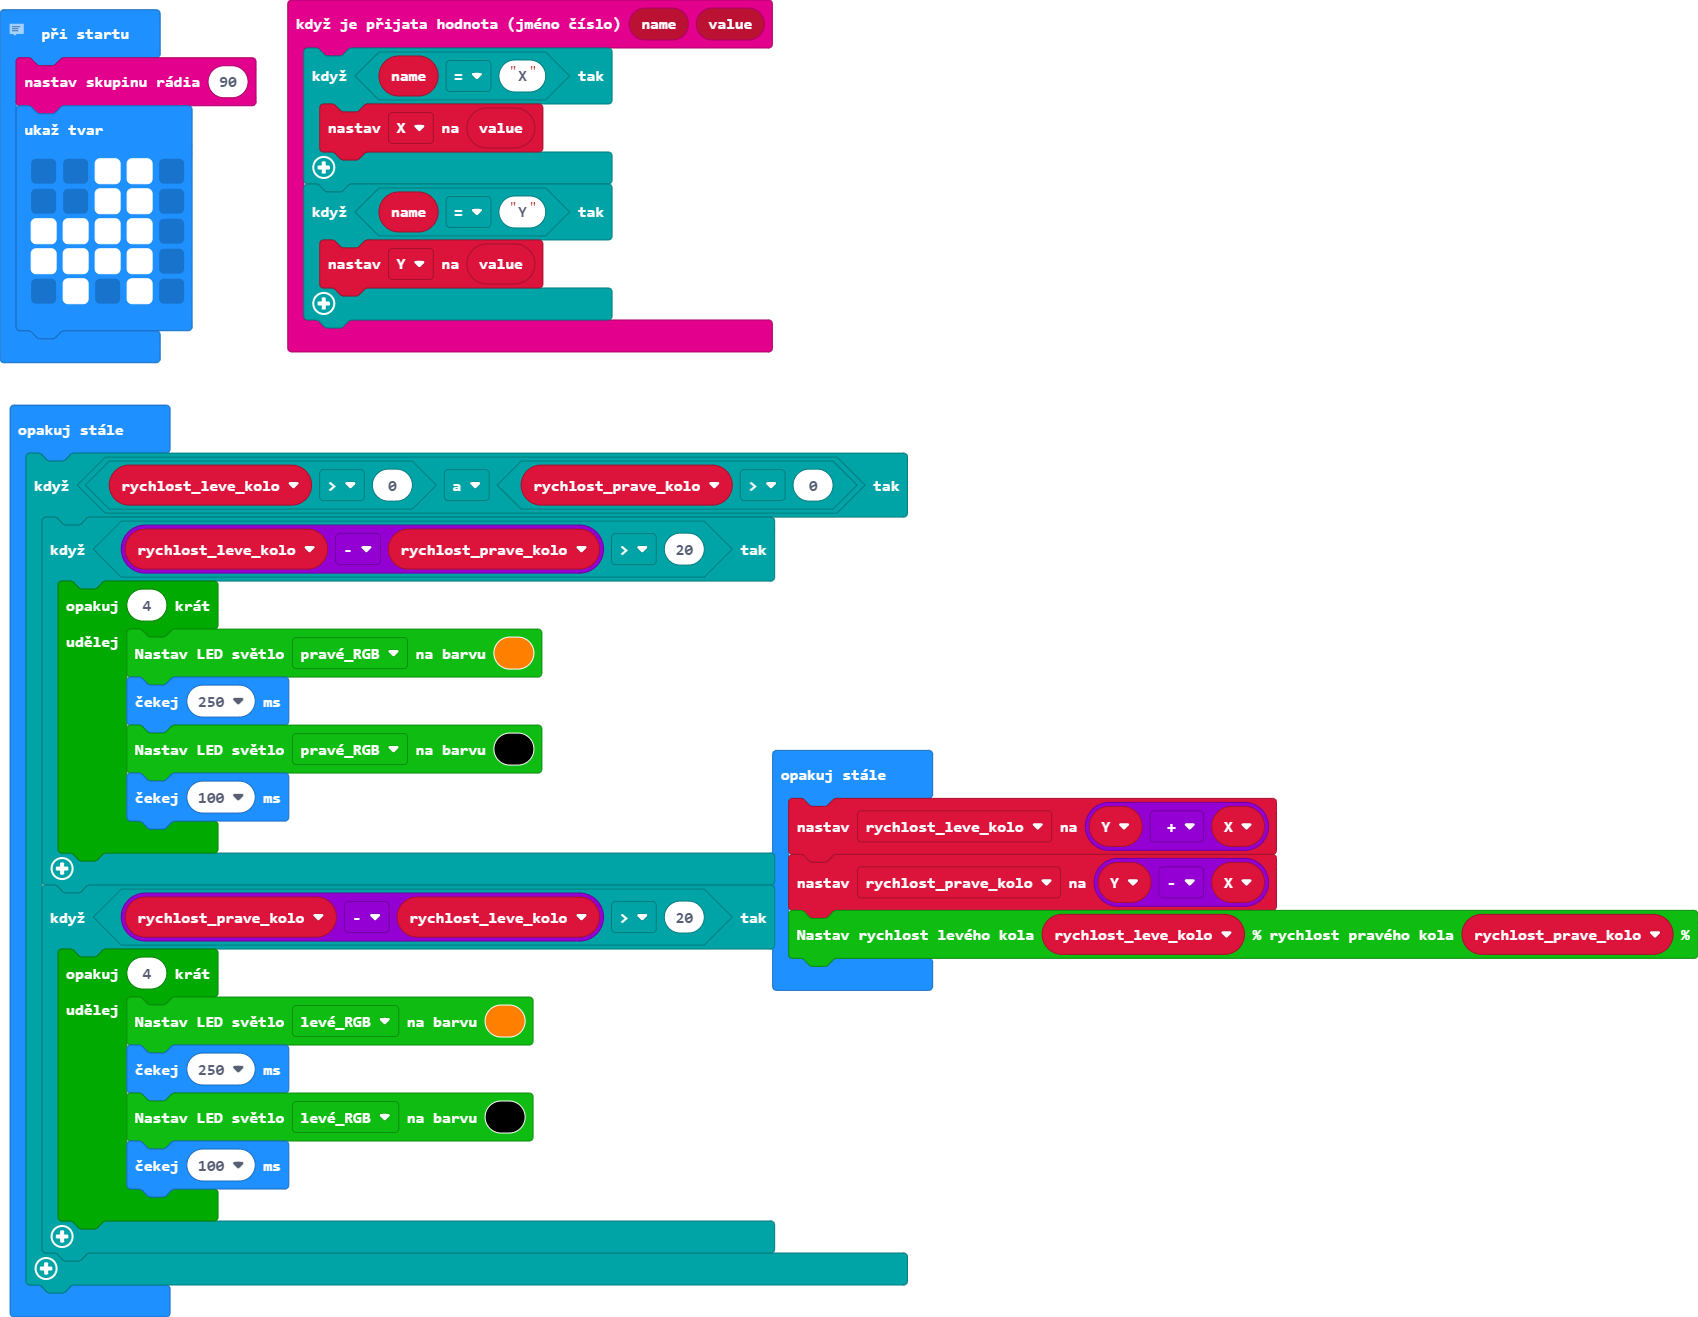
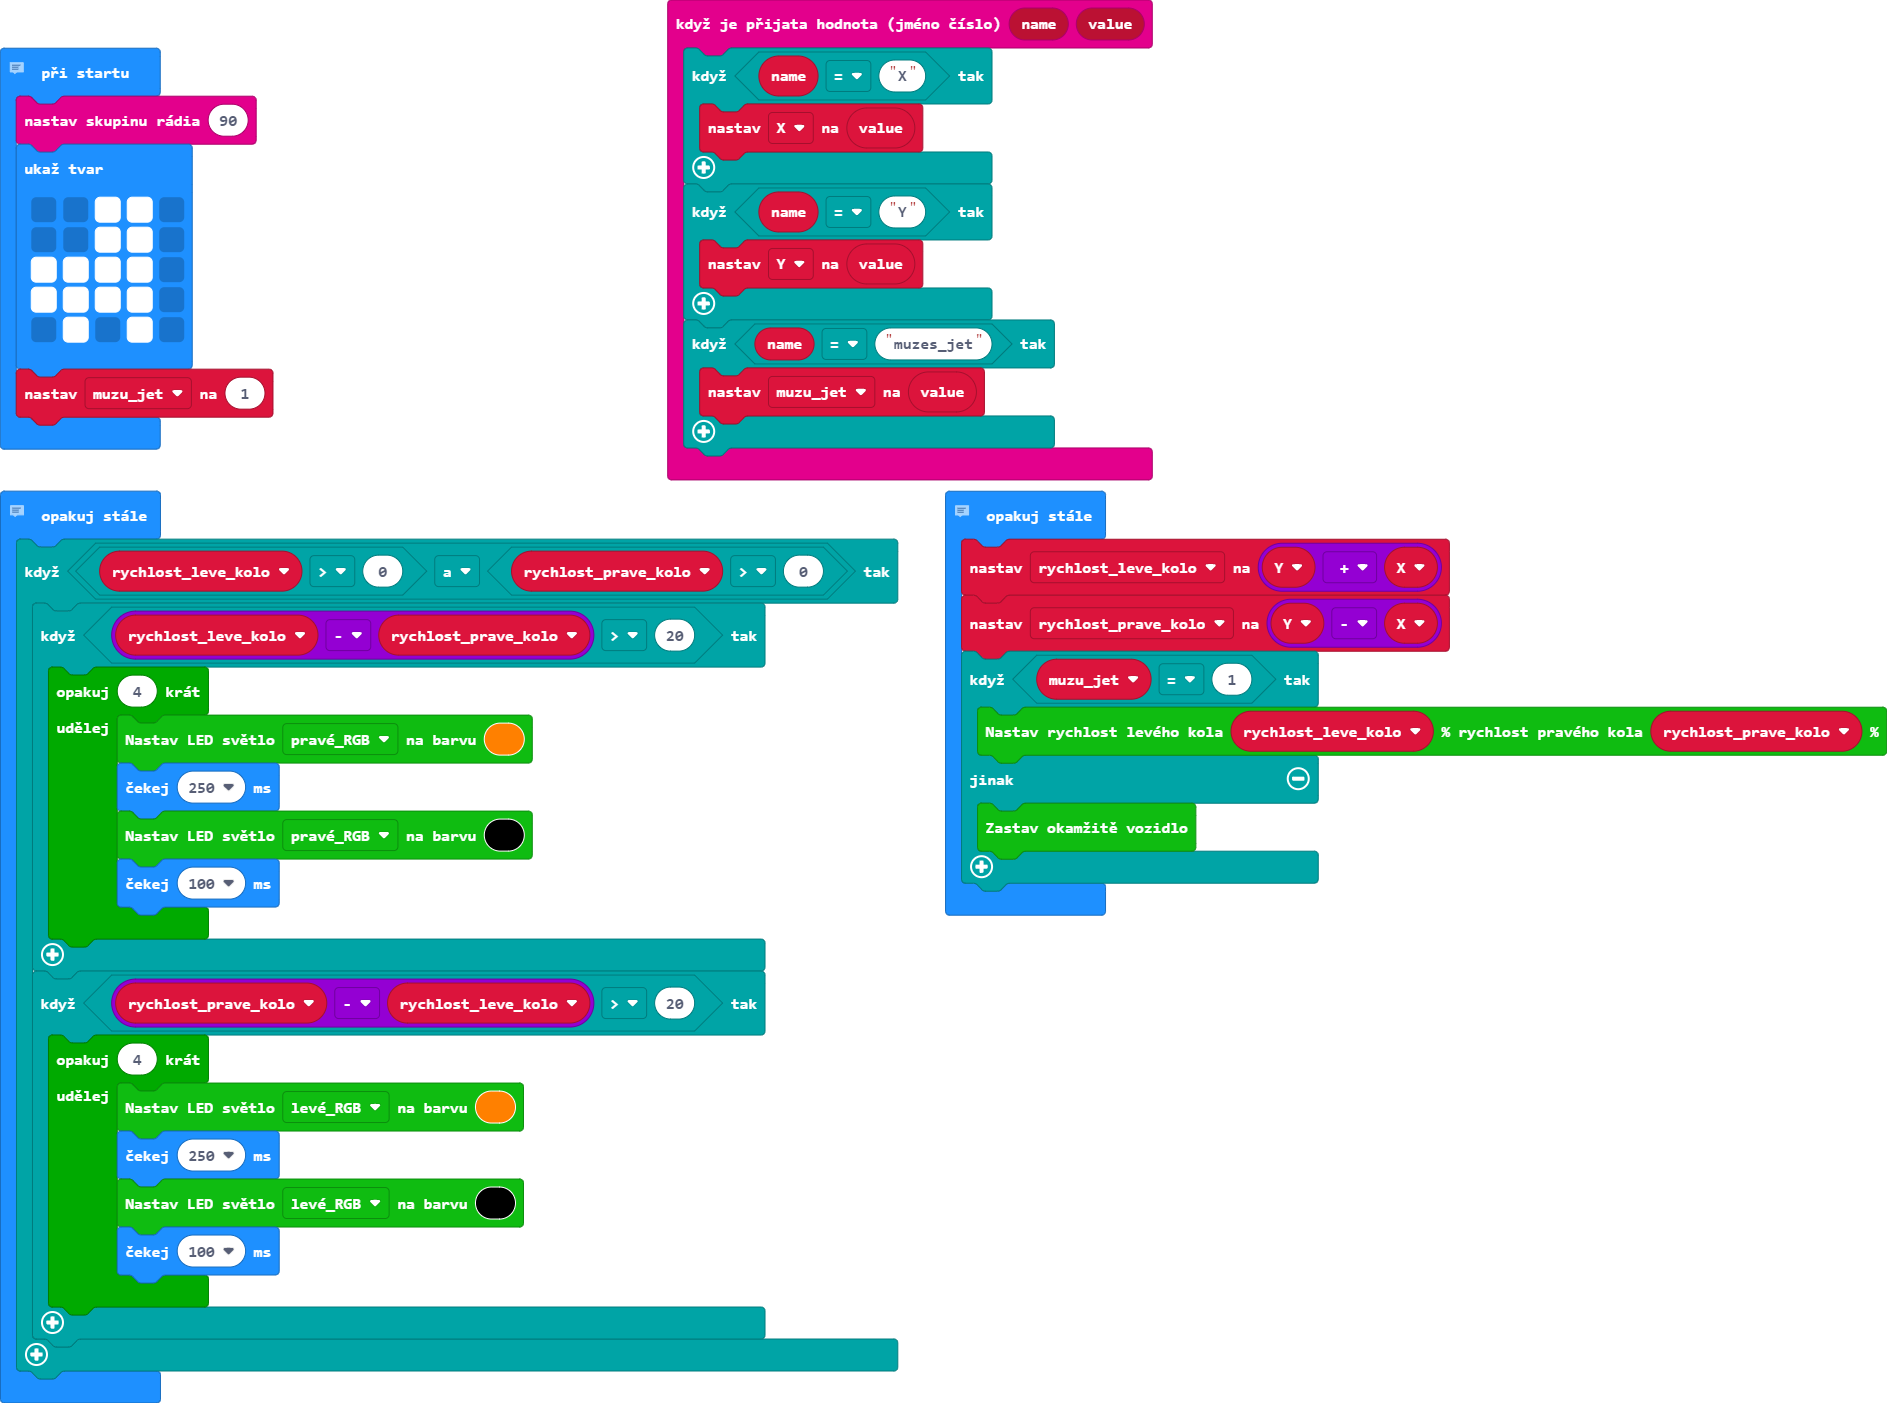
Aktualizovat main.blocks, main.ts

diff --git a/main.ts b/main.ts
@@ -5,6 +5,9 @@ radio.onReceivedValue(function (name, value) {
     if (name == "Y") {
         Y = value
     }
+    if (name == "muzes_jet") {
+        muzu_jet = value
+    }
 })
 // Zastavit Cutie na tlačítko A.
 // Zastavit když je před překážkou.
@@ -15,6 +18,7 @@ let rychlost_prave_kolo = 0
 let rychlost_leve_kolo = 0
 let Y = 0
 let X = 0
+let muzu_jet = 0
 radio.setGroup(90)
 basic.showLeds(`
     . . # # .
@@ -23,6 +27,8 @@ basic.showLeds(`
     # # # # .
     . # . # .
     `)
+muzu_jet = 1
+// Směrovky
 basic.forever(function () {
     if (rychlost_leve_kolo > 0 && rychlost_prave_kolo > 0) {
         if (rychlost_leve_kolo - rychlost_prave_kolo > 20) {
@@ -43,8 +49,14 @@ basic.forever(function () {
         }
     }
 })
+// Rychlost kol
+// 
 basic.forever(function () {
     rychlost_leve_kolo = Y + X
     rychlost_prave_kolo = Y - X
-    cuteBot.motors(rychlost_leve_kolo, rychlost_prave_kolo)
+    if (muzu_jet == 1) {
+        cuteBot.motors(rychlost_leve_kolo, rychlost_prave_kolo)
+    } else {
+        cuteBot.stopcar()
+    }
 })
